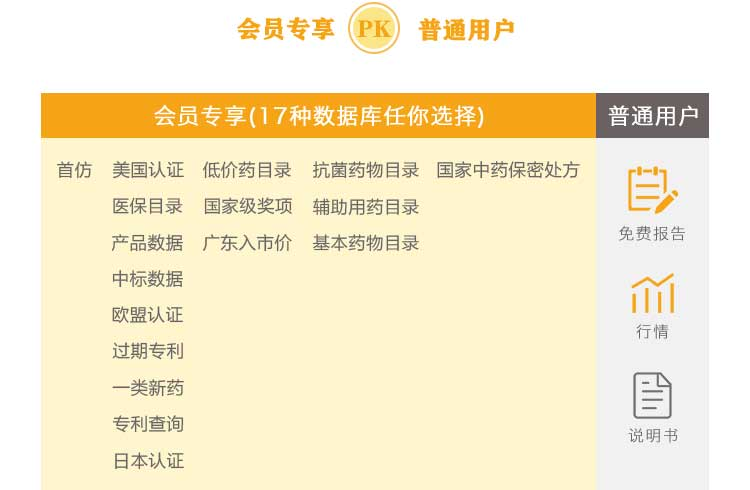
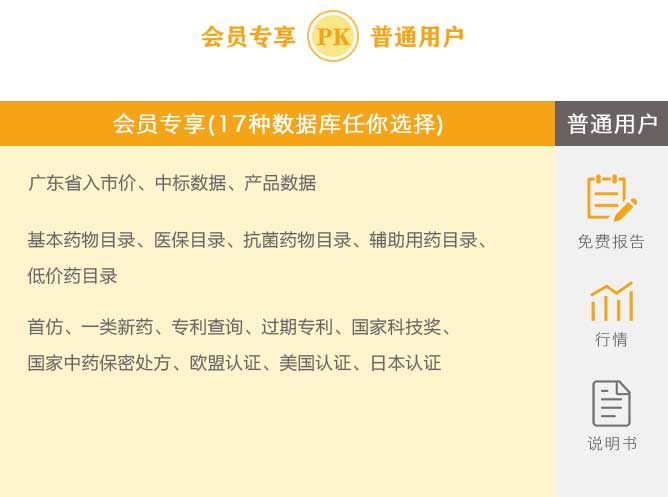
2016-10-13 01

diff --git a/components/vip.js b/components/vip.js
@@ -11,6 +11,25 @@ import {loadHome} from './function/ajax';
      _pushHandle(){
          this.context.router.goBack();
      }
+     _ProductView(id,sele){
+         if (typeof WeixinJSBridge == "undefined")  return false;
+         var pid = id;
+//        var pid = "pDF3iY_G88cM_d-wuImym3tkVfG5";//只需要传递
+         WeixinJSBridge.invoke('openProductViewWithPid',{"pid":pid},(res)=>{
+             // 返回res.err_msg,取值
+             // open_product_view_with_id:ok 打开成功
+//            alert(res.err_msg);
+             if (res.err_msg == "open_product_view_with_id:ok"){
+                 WeixinJSBridge.invoke('openProductView',{
+                     "productInfo":"{\"product_id\":\""+pid+"\",\"product_type\":0}"
+                 },(res)=>{
+                     this.setState({
+                         showPopup:true
+                     });
+                 });
+             }
+         });
+     }
 	render(){
 		return(
 			<div className="root vip">
@@ -22,22 +41,34 @@ import {loadHome} from './function/ajax';
                     <div className="level">
                         <h3>需开通会员后才能查看数据<br/>如已开通再次购买将叠加会员期限</h3>
                         <ul className="row">
-                           <li className="col-20"><img src="images/level.jpg" alt=""/></li>
-                            <li className="col-20"><span>1个月</span></li>
-                            <li className="col"><img src="images/level_price.jpg" alt=""/></li>
-                            <li className="col"><button className="col">立即开通</button></li>
+                            <li className="col-80">
+                                <ul className="row">
+                                <li className="col-20"><img src="images/level.jpg" alt=""/></li>
+                                <li className="col-50"><span>月度 有效期30天</span></li>
+                                <li className="col"><img src="images/level_price.jpg" alt=""/></li>
+                                </ul>
+                            </li>
+                            <li className="col-20"><button className="col"  onClick={this._ProductView.bind(this,"pxFGiwzFAD8mjP9sPRv416VBs3Is")}>立即开通</button></li>
                         </ul>
                         <ul className="row">
-                            <li className="col-20"><img src="images/level.jpg" alt=""/></li>
-                            <li className="col-20"><span>3个月</span></li>
-                            <li className="col"><img src="images/level_price02.jpg" alt=""/></li>
-                            <li className="col"><button className="col">立即开通</button></li>
+                            <li className="col-80">
+                                <ul className="row">
+                                    <li className="col-20"><img src="images/level.jpg" alt=""/></li>
+                                    <li className="col-50"><span>季度 有效期90天</span></li>
+                                    <li className="col"><img src="images/level_price02.jpg" alt=""/></li>
+                                </ul>
+                            </li>
+                            <li className="col-20"><button className="col"  onClick={this._ProductView.bind(this,"pxFGiw7CWclXnIvqF6JqlcguRc-8")}>立即开通</button></li>
                         </ul>
                         <ul className="row">
-                            <li className="col-20"><img src="images/level.jpg" alt=""/></li>
-                            <li className="col-20"><span>12个月</span></li>
-                            <li className="col"><img src="images/level_price03.jpg" alt=""/></li>
-                            <li className="col"><button className="col">立即开通</button></li>
+                            <li className="col-80">
+                                <ul className="row">
+                                    <li className="col-20"><img src="images/level.jpg" alt=""/></li>
+                                    <li className="col-50"><span>年度 有效期360天</span></li>
+                                    <li className="col"><img src="images/level_price03.jpg" alt=""/></li>
+                                </ul>
+                            </li>
+                            <li className="col-20"><button className="col"  onClick={this._ProductView.bind(this,"pxFGiwyfqw59qONiyD5Gq5Ro__2g")}>立即开通</button></li>
                         </ul>
                     </div>
                     <div className="pk">

diff --git a/components/datas/product.js b/components/datas/product.js
@@ -55,6 +55,7 @@ class product extends Component{
             pageNo:this.props.product.pageNo,
             searchName:this.props.product.searchName,
             callBack:(res)=>{
+                if(this._calledComponentWillUnmount) return false;
                 console.log(res.datas,"dd")
                 console.log(this.props.product.data,"sss")
                 this.props.dispatch({
@@ -165,7 +166,7 @@ class List extends Component{
                     <li>生产企业：{this.props.dataSources.manufacturerName}</li>
                 </ul>
                 {
-                    this.props.dataSources.tradeBreedId?<TradeBreedId  {...this.props}/>:null
+                    this.props.dataSources.catalogId?<TradeBreedId  {...this.props} catalog={this.props.dataSources}/>:null
                 }
             </li>
             </div>
@@ -177,11 +178,11 @@ class TradeBreedId extends Component{
     render(){
         return(
             <div>
-                <span className="btn"  > {this.props.tradeBreedId}</span>
+                <span className="btn"  > 广东交易平台</span>
                 <ul className="list">
-                    <li>目录ID：{this.props.catalogId}</li>
-                    <li>目录名称：{this.props.catalogName}</li>
-                    <li>目录类型：{this.props.catalogType}</li>
+                    <li>目录ID：{this.props.catalog.catalogId}</li>
+                    <li>目录名称：{this.props.catalog.catalogName}</li>
+                    <li>目录类型：{this.props.catalog.catalogType}</li>
                 </ul>
             </div>
         )
@@ -200,7 +201,7 @@ class HeaderBar extends Component{
         return(
             <div className="bar bar-header bar-positive item-input-inset">
                 <div className="buttons">
-                    <button className="button" onClick={this.props._showProvicenHandle}>
+                    <button className="button" onClick={this.props.searchHandle}>
                         <i className="fa fa-th-large  fa-2x" aria-hidden="true" style={{display:"block"}}></i>
                     </button>
                 </div>

diff --git a/components/report.js b/components/report.js
@@ -33,30 +33,28 @@ class Report extends Component {
       pageNo:this.props.report.pageNo,
       searchType:this.props.report.searchType,
       reportType:this.props.report.reportType,
-      callBack:(res)=> {
-        if (res) {
+      callBack:(res)=>{
+        this.props.dispatch({
+          type:'LOADPRODUCEDATA',
+          data:this.props.report.data.concat(res.datas),
+          pageNo:this.props.report.pageNo+1
+        });
+        if(res.totalSize <= this.props.report.data.length){
           this.props.dispatch({
-            type: 'LOADPRODUCEDATA',
-            data: this.props.report.data.concat(res.datas),
-            pageNo: this.props.report.pageNo + 1
+            type:'UNINFINITE'
           });
-            if (res.totalSize <= this.props.report.data.length) {
-              this.props.dispatch({
-                type: 'UNINFINITE'
-              });
-            } else {
-              this.props.dispatch({
-                type: 'INFINITE'
-              });
-            }
-            this.setState({
-              loading: false
-            });
-            this.setState({
-              request: true
-            });
-          }
+        }else{
+          this.props.dispatch({
+            type:'INFINITE'
+          });
         }
+        this.setState({
+          loading:false
+        });
+        this.setState({
+          request:true
+        });
+      }
     });
   }
   _infiniteScroll(){
@@ -256,7 +254,7 @@ class List extends Component{
     var string = null;
     var tag = (()=>{
       if(this.props.dataSources.costStatus == "1"){
-        string = <i className="report-card-icon">点击查看</i>;
+        string = <i className="report-card-icon">报告试读</i>;
       }else{
         string = <i className="report-card-icon">点击查看</i>;
       }

diff --git a/build.js b/build.js
@@ -51,24 +51,24 @@ import LowPrice from './components/lowPrice';
 import Anti from './components/anti';
 
 var store = createStore(ystReducers,applyMiddleware(thunk));
-Token((res) => {
-    store.dispatch({
-        type:'CHANGE',
-        areaName:res.datas.areaName,
-        areaId:res.datas.areaId,
-        searchAreaType:res.datas.searchAreaType
-    });
-    store.dispatch({
-        type:'CHANGEDATA',
-        yearMonth:res.datas.yearMonth
-    });
-    ReactDOM.render(_router, ele, null);
-},(res)=>{
-    store.dispatch({
-        type:'LOADUSERINFO',
-        datas:res.datas
-    });
-});
+//Token((res) => {
+//    store.dispatch({
+//        type:'CHANGE',
+//        areaName:res.datas.areaName,
+//        areaId:res.datas.areaId,
+//        searchAreaType:res.datas.searchAreaType
+//    });
+//    store.dispatch({
+//        type:'CHANGEDATA',
+//        yearMonth:res.datas.yearMonth
+//    });
+//    ReactDOM.render(_router, ele, null);
+//},(res)=>{
+//    store.dispatch({
+//        type:'LOADUSERINFO',
+//        datas:res.datas
+//    });
+//});
 var _router = (
 	<Provider store={store}>
 		<Router history={browserHistory}>
@@ -133,4 +133,4 @@ var _router = (
 	</Provider>
 );
 var ele = document.getElementById('app');
-//ReactDOM.render(_router, ele, null);
+ReactDOM.render(_router, ele, null);

diff --git a/scss/style.scss b/scss/style.scss
@@ -562,6 +562,7 @@ h3{
 //vip
 .vip{
     overflow: auto;
+    color: #fff;
    img{
        width: 100%;
        display: block;
@@ -588,7 +589,7 @@ h3{
         }
     }
     .level{
-        padding: 0 1.8rem;
+        padding: 0 1.2rem;
         font-size: 1.2rem;
         padding-top: 1rem;
         background-color: #fff;
@@ -605,7 +606,7 @@ h3{
             color: #fff;
             border-width: 0;
             padding: 0.1rem 0.2rem;
-            font-size: 0.7rem;
+            font-size: 0.6rem;
             border-radius: 5px;
         }
         img{
@@ -619,19 +620,24 @@ h3{
         span{
             vertical-align: middle;
             display: inline-block;
-            font-size: .8rem;
+            font-size: .6rem;
             color: #f6a416;
             font-weight: 600;
         }
     }
     .pk{
         padding: 0 1rem;
+        margin-bottom: 20px;
         background-color: #fff;
     }
 }
 @media screen and (max-width:322px){
     .vip  .level span{
         font-size: .6rem;
+    }
+    .vip .level button{
+        font-size: 0.55rem;
+        padding: 0.1rem 0.1rem;
     }
 }
 .bid-list{
@@ -698,7 +704,7 @@ h3{
     }
     .list-right{
         width: 50%;
-        font-size: .5rem;
+        font-size: .6rem;
     }
 }
 .more{

diff --git a/components/policy.js b/components/policy.js
@@ -473,11 +473,11 @@ class Main extends Component{
                                         <p>生产企业：{ele.manufacturerName}</p>
                                         <p>
                                            {
-                                                ele.qualityLevelTypes.length ==0 ? null : ele.qualityLevelTypes.map((ele)=>{
+                                               ele.qualityLevelTypes != null && ele.qualityLevelTypes.length > 0 ?  ele.qualityLevelTypes.map((ele)=>{
                                                     return(
                                                         <span className="tag" key={Math.random(1)}>{ele}</span>
                                                     )
-                                                })
+                                                }):null
                                             }
                                         </p>
                                     </li>

diff --git a/components/function/token.js b/components/function/token.js
@@ -50,7 +50,7 @@ export const Token = function(fn,login,isLogin){
                         var info = {
                             title: '药市通',
                             link: 'http://yst-test.immortalshealth.com',
-                            imgUrl: 'http://yst.immortalshealth.com/yst/src/images/logo.jpg',
+                            imgUrl: 'http://yst-test.immortalshealth.com/pub/resources/sysres/logo.jpg',
                             desc: ' 提供历年中标数据、广东省入市价、政策准入、质量层次等数据查询 ，提供行业分析报告，共享分成。'
                         };
                         wx.onMenuShareTimeline({
